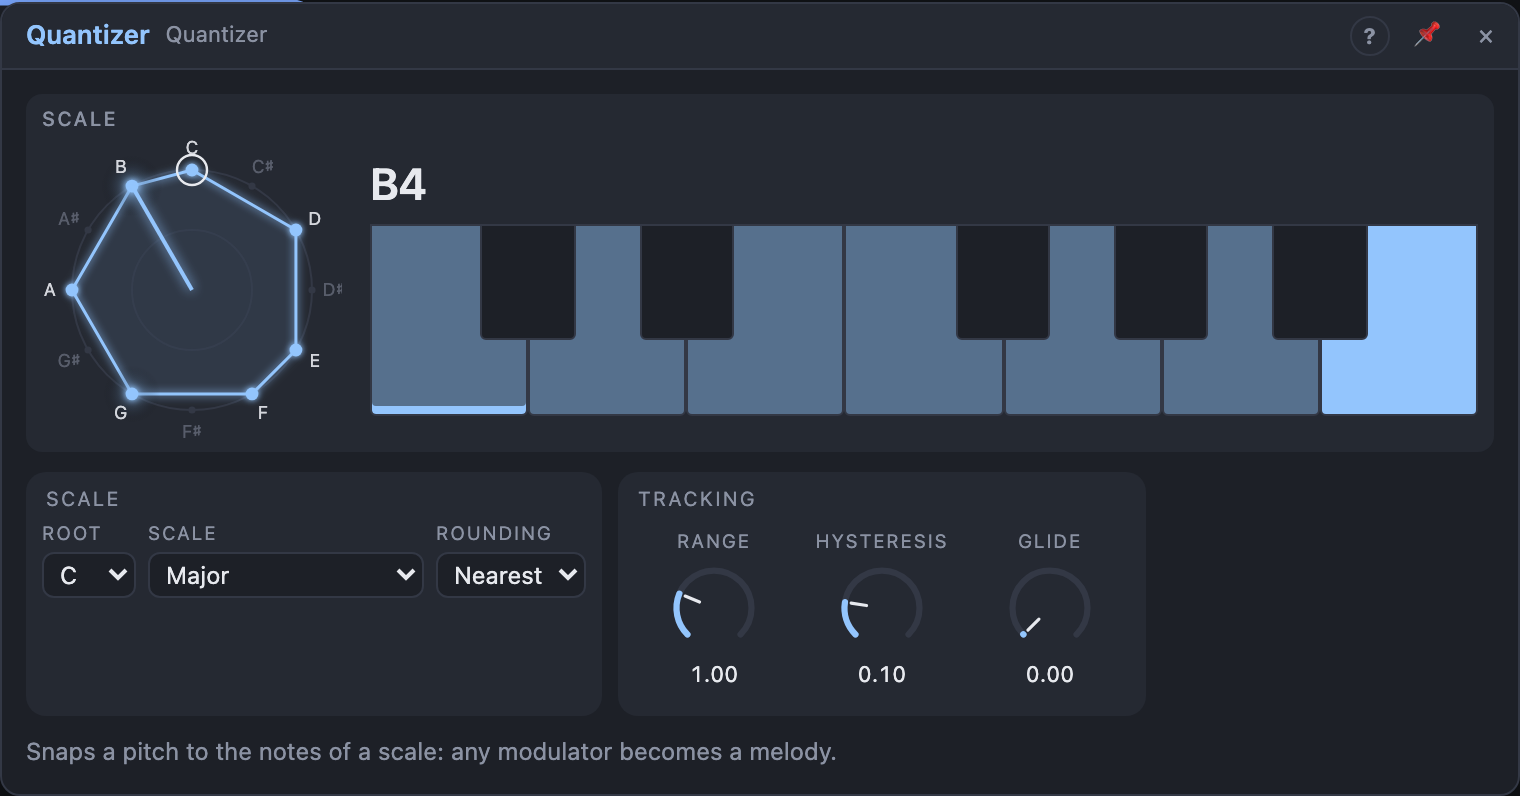
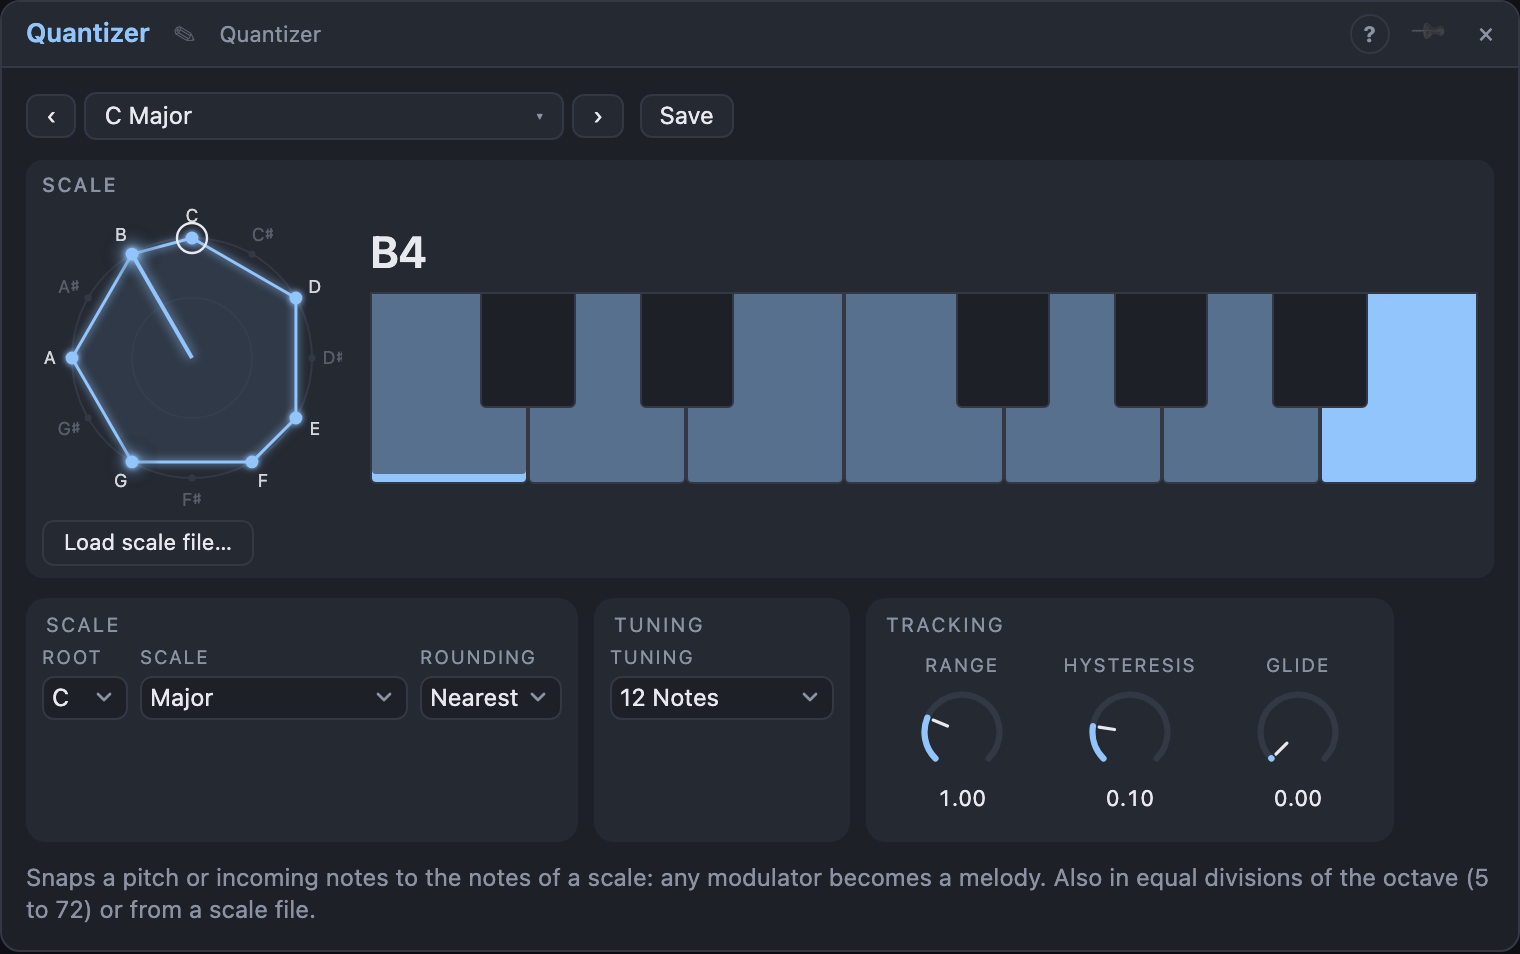
Module screenshots for the new modules; Recorder view class names no longer clash with Rate Counter

diff --git a/patch/modules/recorder/ui/recorder.js b/patch/modules/recorder/ui/recorder.js
@@ -62,7 +62,7 @@
     if (!rc) return;
     const st = rc.st || {}, d = view.node.data || {};
     rc.state.textContent = STATES[st.state | 0] || "";
-    rc.lamp.className = "rc-lamp s" + (st.state | 0);
+    rc.lamp.className = "rcd-lamp s" + (st.state | 0);
     rc.time.textContent = fmt(st.seconds || 0) + " / " + fmt(st.limit || 0);
     rc.level.style.width = Math.min(100, Math.round(100 * (st.level || 0))) + "%";
     rc.save.disabled = (st.state | 0) !== 3 || rc.saving;
@@ -81,24 +81,25 @@
     ],
     template:
       "<style>" +
-      ".rc-top{display:flex;align-items:center;gap:10px;font-size:13px}" +
-      ".rc-time{margin-left:auto;font-variant-numeric:tabular-nums;color:var(--muted)}" +
-      ".rc-lamp{width:12px;height:12px;border-radius:50%;background:var(--panel-3);border:1px solid var(--line)}" +
-      ".rc-lamp.s1{background:#fbbf24;border-color:#fbbf24}.rc-lamp.s2{background:#f87171;border-color:#f87171;box-shadow:0 0 8px #f87171}" +
-      ".rc-lamp.s3{background:var(--accent);border-color:var(--accent)}" +
-      ".rc-bar{height:4px;border-radius:2px;background:var(--panel-3);margin:6px 0;overflow:hidden}" +
-      ".rc-bar i{display:block;height:100%;width:0;background:var(--accent)}" +
-      ".rc-wave{display:block;width:100%;height:90px;background:var(--panel-2);border-radius:6px}" +
-      ".rc-row{display:flex;gap:8px;align-items:center;margin-top:8px;font-size:11px;color:var(--muted)}" +
+      ".rcd{flex:1 1 100%}" +
+      ".rcd-top{display:flex;align-items:center;gap:10px;font-size:13px}" +
+      ".rcd-time{margin-left:auto;font-variant-numeric:tabular-nums;color:var(--muted)}" +
+      ".rcd-lamp{width:12px;height:12px;border-radius:50%;background:var(--panel-3);border:1px solid var(--line)}" +
+      ".rcd-lamp.s1{background:#fbbf24;border-color:#fbbf24}.rcd-lamp.s2{background:#f87171;border-color:#f87171;box-shadow:0 0 8px #f87171}" +
+      ".rcd-lamp.s3{background:var(--accent);border-color:var(--accent)}" +
+      ".rcd-bar{height:4px;border-radius:2px;background:var(--panel-3);margin:6px 0;overflow:hidden}" +
+      ".rcd-bar i{display:block;height:100%;width:0;background:var(--accent)}" +
+      ".rcd-wave{display:block;width:100%;height:90px;background:var(--panel-2);border-radius:6px}" +
+      ".rcd-row{display:flex;gap:8px;align-items:center;margin-top:8px;font-size:11px;color:var(--muted)}" +
       "</style>" +
-      '<div class="rc"><div class="rc-top"><span class="rc-lamp"></span><b class="rc-state"></b><span class="rc-time"></span></div>' +
-      '<div class="rc-bar"><i></i></div><canvas class="rc-wave"></canvas>' +
-      '<div class="rc-row"><button class="rc-save" type="button">Save Take</button><button class="rc-reveal" type="button">Show File</button>' +
-      '<span class="rc-file"></span><span class="rc-note"></span></div></div>',
+      '<div class="rcd"><div class="rcd-top"><span class="rcd-lamp"></span><b class="rcd-state"></b><span class="rcd-time"></span></div>' +
+      '<div class="rcd-bar"><i></i></div><canvas class="rcd-wave"></canvas>' +
+      '<div class="rcd-row"><button class="rcd-save" type="button">Save Take</button><button class="rcd-reveal" type="button">Show File</button>' +
+      '<span class="rcd-file"></span><span class="rcd-note"></span></div></div>',
     afterBuild(view, el) {
       const q = (s) => el.querySelector(s);
-      view.rec = { canvas: q("canvas"), state: q(".rc-state"), lamp: q(".rc-lamp"), time: q(".rc-time"), level: q(".rc-bar i"),
-                   save: q(".rc-save"), reveal: q(".rc-reveal"), file: q(".rc-file"), note: q(".rc-note"),
+      view.rec = { canvas: q("canvas"), state: q(".rcd-state"), lamp: q(".rcd-lamp"), time: q(".rcd-time"), level: q(".rcd-bar i"),
+                   save: q(".rcd-save"), reveal: q(".rcd-reveal"), file: q(".rcd-file"), note: q(".rcd-note"),
                    st: null, peaks: null, dirty: true, saving: false, lastState: 0 };
       view.rec.save.addEventListener("click", () => save(view));
       view.rec.reveal.addEventListener("click", async () => {
